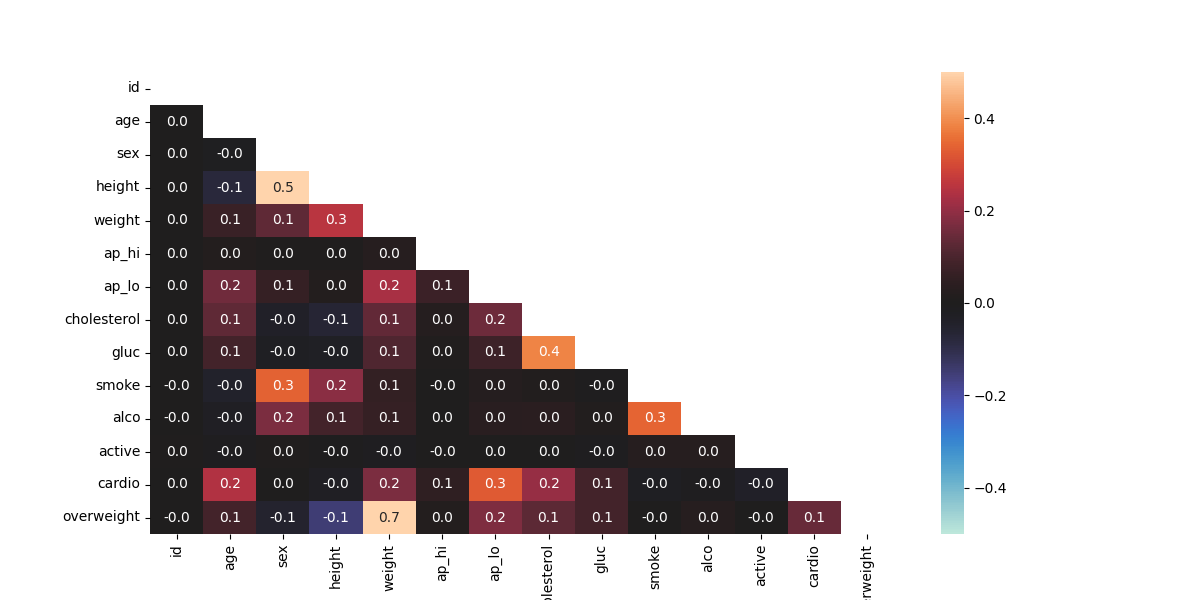
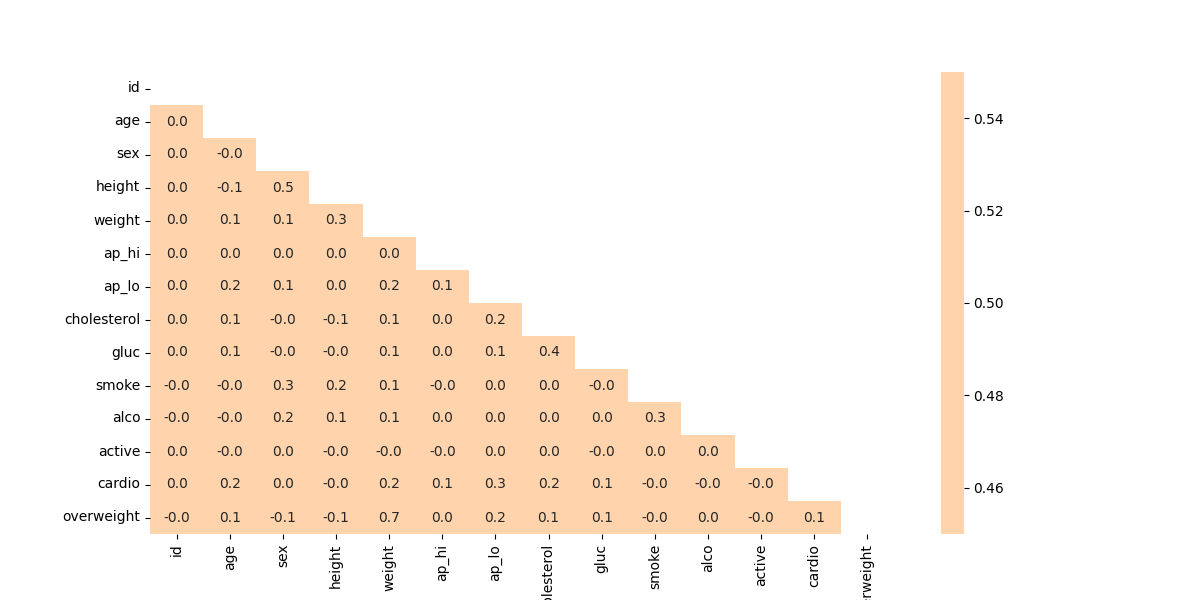
Updated med_data_visualizer.py b|med_data_visualizer_v2

Changed region(s): [[0.1233, 0.15, 0.7092, 0.9], [0.7708, 0.12, 0.8325, 0.9]]

diff --git a/med_data_visualizer/med_data_visualizer.py b/med_data_visualizer/med_data_visualizer.py
@@ -6,59 +6,54 @@ import numpy as np
 tab = pd.read_csv('medical_examination.csv')
 
 # Add 'overweight' column
-tab['overweight'] = tab['weight'] / (tab['height'] / 100) **2
-tab.loc[(tab['overweight'] <= 25), 'overweight'] = 0
-tab.loc[(tab['overweight'] > 25), 'overweight'] = 1
-tab['overweight'] = tab['overweight'].astype(int)
+bmi = tab['weight'] / np.square(tab['height'] / 100)
+tab['overweight'] = (bmi > 25).astype('uint8')
 
 # Normalize data by making 0 always good and 1 always bad. If the value of 'cholesterol' or 'gluc' is 1, make the value 0. If the value is more than 1, make the value 1.
-tab.loc[tab['cholesterol'] == 1,'cholesterol'] = 0
-tab.loc[tab['gluc'] == 1, 'gluc'] = 0
-tab.loc[tab['cholesterol'] > 1,'cholesterol'] = 1
-tab.loc[tab['gluc'] > 1, 'gluc'] = 1
+tab['cholesterol'] = (tab['cholesterol'] != 1).astype('uint8')
+tab['gluc'] = (tab['gluc'] != 1).astype('uint8')
 
-# Draw Categorical Plot
 def draw_cat_plot():
     # Create DataFrame for cat plot using `pd.melt` using just the values from 'cholesterol', 'gluc', 'smoke', 'alco', 'active', and 'overweight'.
-    q3 = tab.melt(id_vars='cardio',value_vars=['active', 'alco', 'cholesterol', 'gluc', 'overweight', 'smoke'])
+    melt_tab = tab.melt(id_vars=['cardio'], value_vars=['active', 'alco', 'cholesterol', 'gluc', 'overweight', 'smoke'])
 
     # Group and reformat the data to split it by 'cardio'. Show the counts of each feature. You will have to rename one of the columns for the catplot to work correctly.
-    #df_cat = None
+    melt_tab = melt_tab.reset_index() \
+                .groupby(['variable', 'cardio', 'value']) \
+                .agg('count') \
+                .rename(columns={'index': 'total'}) \
+                .reset_index()
 
     # Draw the catplot with 'sns.catplot()'
-    ax1 = sns.catplot(col='cardio', x='variable', hue='value', kind='count', data=q3)
-    ax1.set(ylabel='total')
-
-
-    # Get the figure for the output
-    print(ax)
+    ax = sns.catplot(x='variable', col='cardio',  hue='value', kind='count', data=melt_tab)
+    ax.set(ylabel='total')
 
     # Do not modify the next two lines
-    ax1.savefig('catplot.png')
+    ax.savefig('catplot.png')
     return ax
 
 # Draw Heat Map
 def draw_heat_map():
     # Clean the data
-    ctab = tab.copy()
-    ctab = ctab[ctab['ap_lo'] <= ctab['ap_hi']]
-    ctab = ctab[ctab['height'] >= ctab['height'].quantile(0.025)]
-    ctab = ctab[ctab['height'] <= ctab['height'].quantile(0.975)]
-    ctab = ctab[ctab['weight'] >= ctab['weight'].quantile(0.025)]
-    ctab = ctab[ctab['weight'] <= ctab['weight'].quantile(0.975)]
+    heat_tab = tab[
+        (tab['ap_lo'] <= tab['ap_hi'])
+        & (tab['height'] >= tab['height'].quantile(0.025))
+        & (tab['height'] <= tab['height'].quantile(0.975))
+        & (tab['weight'] >= tab['weight'].quantile(0.025))
+        & (tab['weight'] <= tab['weight'].quantile(0.975))]
 
     # Calculate the correlation matrix
-    cor_ctab = ctab.corr()
+    corr = heat_tab.corr()
 
     # Generate a mask for the upper triangle
-    tri_mask = np.triu(np.ones_like(cor_ctab))
+    tri_mask = np.triu(np.ones_like(corr))
 
     # Set up the matplotlib figure
+    fig = plt.figure(figsize=(12,6))
 
     # Draw the heatmap with 'sns.heatmap()'
-    bx = sns.heatmap(cor_ctab, linewidths=0.5, mask=tri_mask, annot=True, annot_kws={'size':5})
-    print(bx)
+    sns.heatmap(corr, mask=tri_mask, annot=True, fmt='.1f', center=0, vmin=0.5, vmax=0.5)
 
     # Do not modify the next two lines
-    bx.savefig('heatmap.png')
-    return bx
+    fig.savefig('heatmap.png')
+    return fig

diff --git a/med_data_visualizer/med_data_visualizer_main.py b/med_data_visualizer/med_data_visualizer_main.py
@@ -1,14 +1,13 @@
 # This entrypoint file to be used in development. Start by reading README.md
-import clone
-#import med_data_visualizer
+import med_data_visualizer
 from unittest import main
 
 # Test your function by calling it here
-print(clone.draw_cat_plot())
-print(clone.draw_heat_map())
+#print(clone.draw_cat_plot())
+#print(clone.draw_heat_map())
 
 #med_data_visualizer.draw_cat_plot()
 #med_data_visualizer.draw_heat_map()
 
 # Run unit tests automatically
-#main(module='med_data_visualizer_test', exit=False)
+main(module='med_data_visualizer_test', exit=False)
